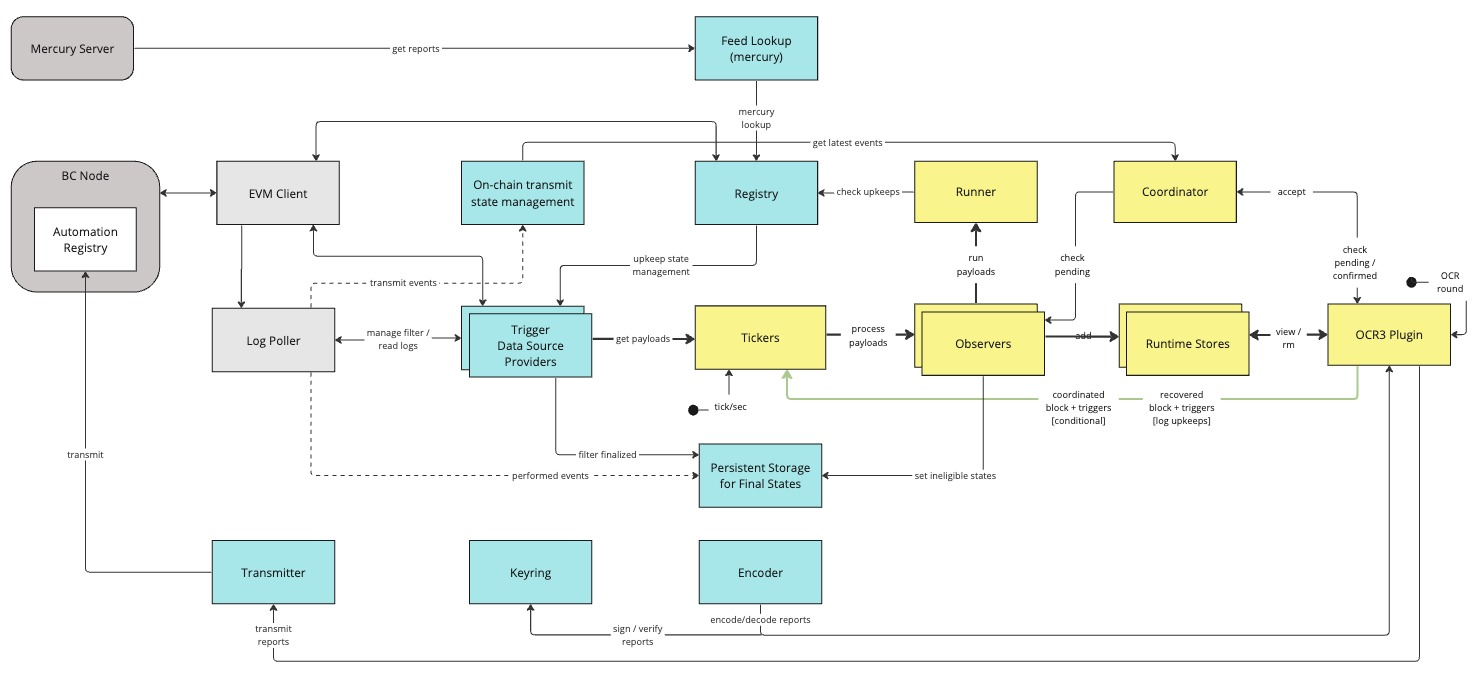
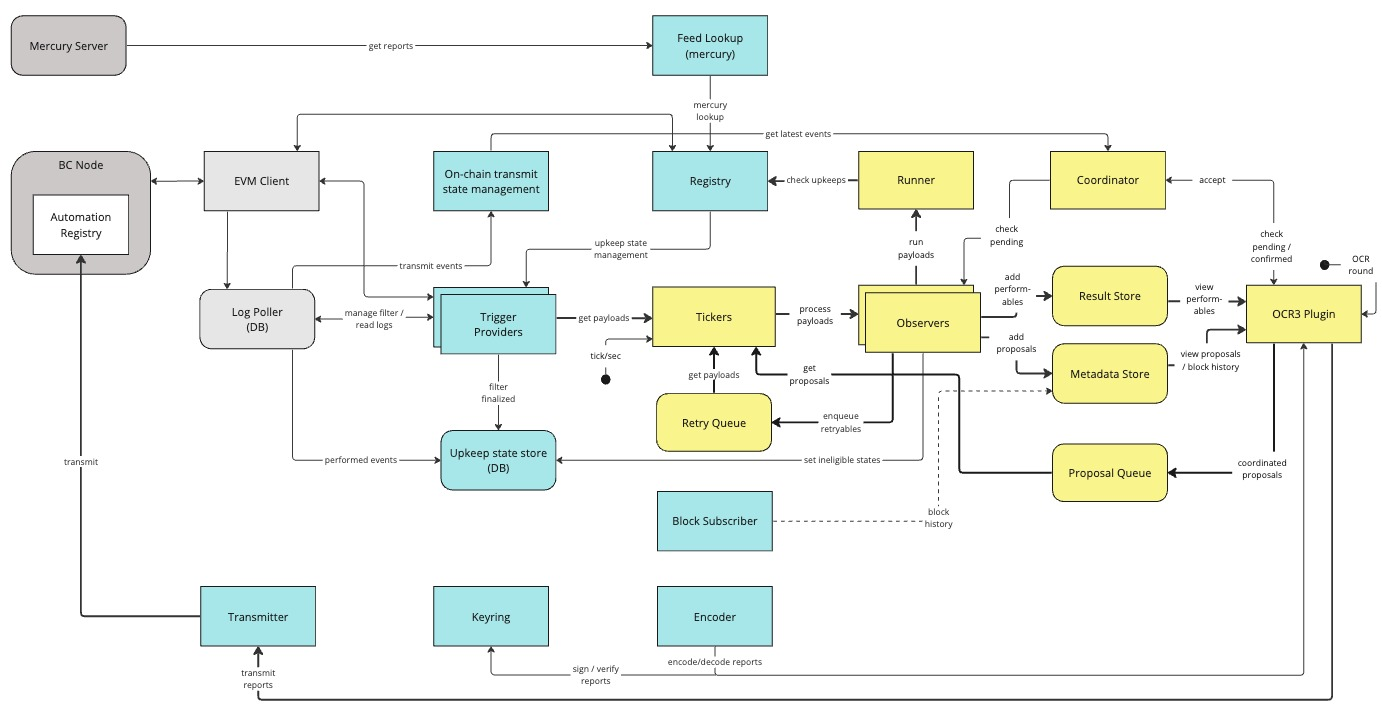
Update diagram (#252)
* update components diagram

* cleanup

* mention proposal q in docs

diff --git a/docs/PROTOCOL_v21.md b/docs/PROTOCOL_v21.md
@@ -372,13 +372,13 @@ Finalization observers takes input from the corresponding ticker, process it and
 There are 4 types of finalization observers:
 
 #### 1. Conditional Finalization
-Processes agreed eligible samples from previous observations.
+Processes agreed eligible samples from previous observations, served via the proposal queue.
 
 #### 2. Log Trigger
 Processes log triggers that were found by log provider.
 
 #### 3. Log Recovery Finalization
-Processes agreed eligible recovery logs from previous observations.
+Processes agreed eligible recovery logs from previous observations, served via the proposal queue.
 
 #### 4. Retry
 Processes retryable payloads from the retry queue.
